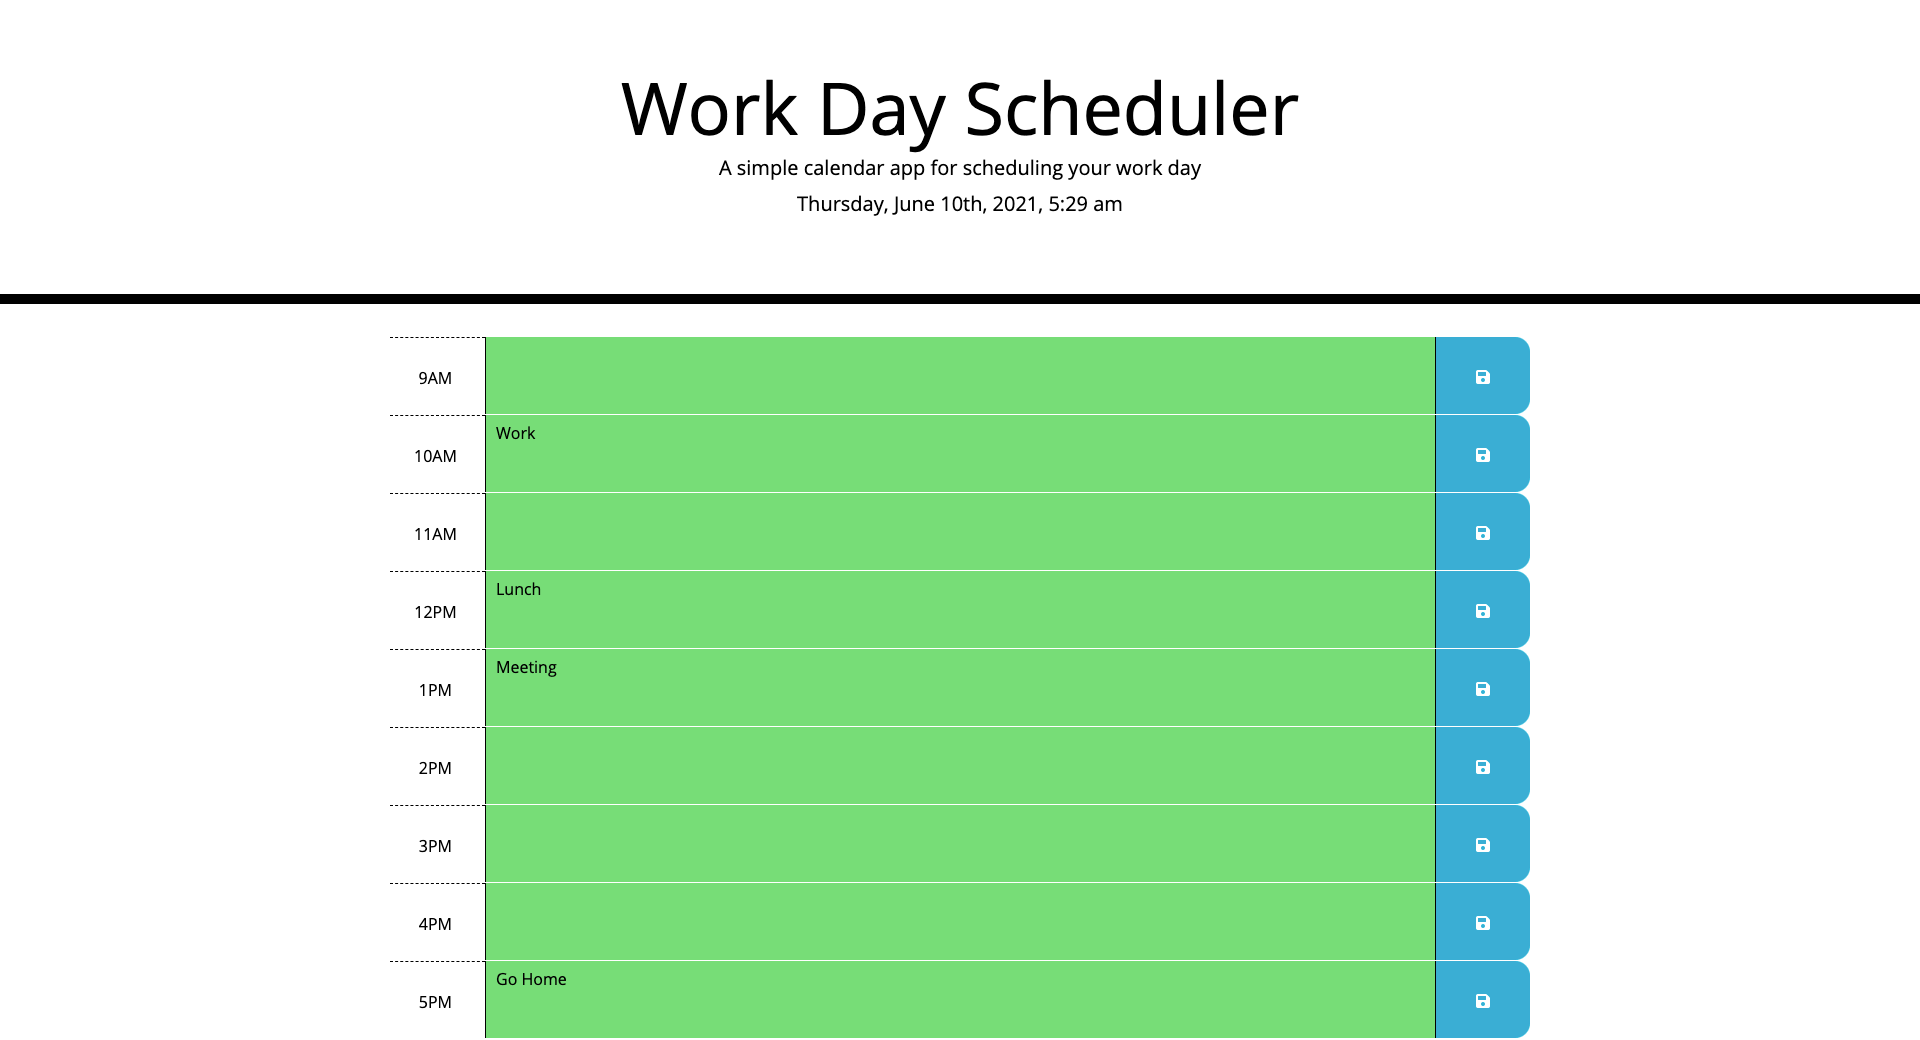
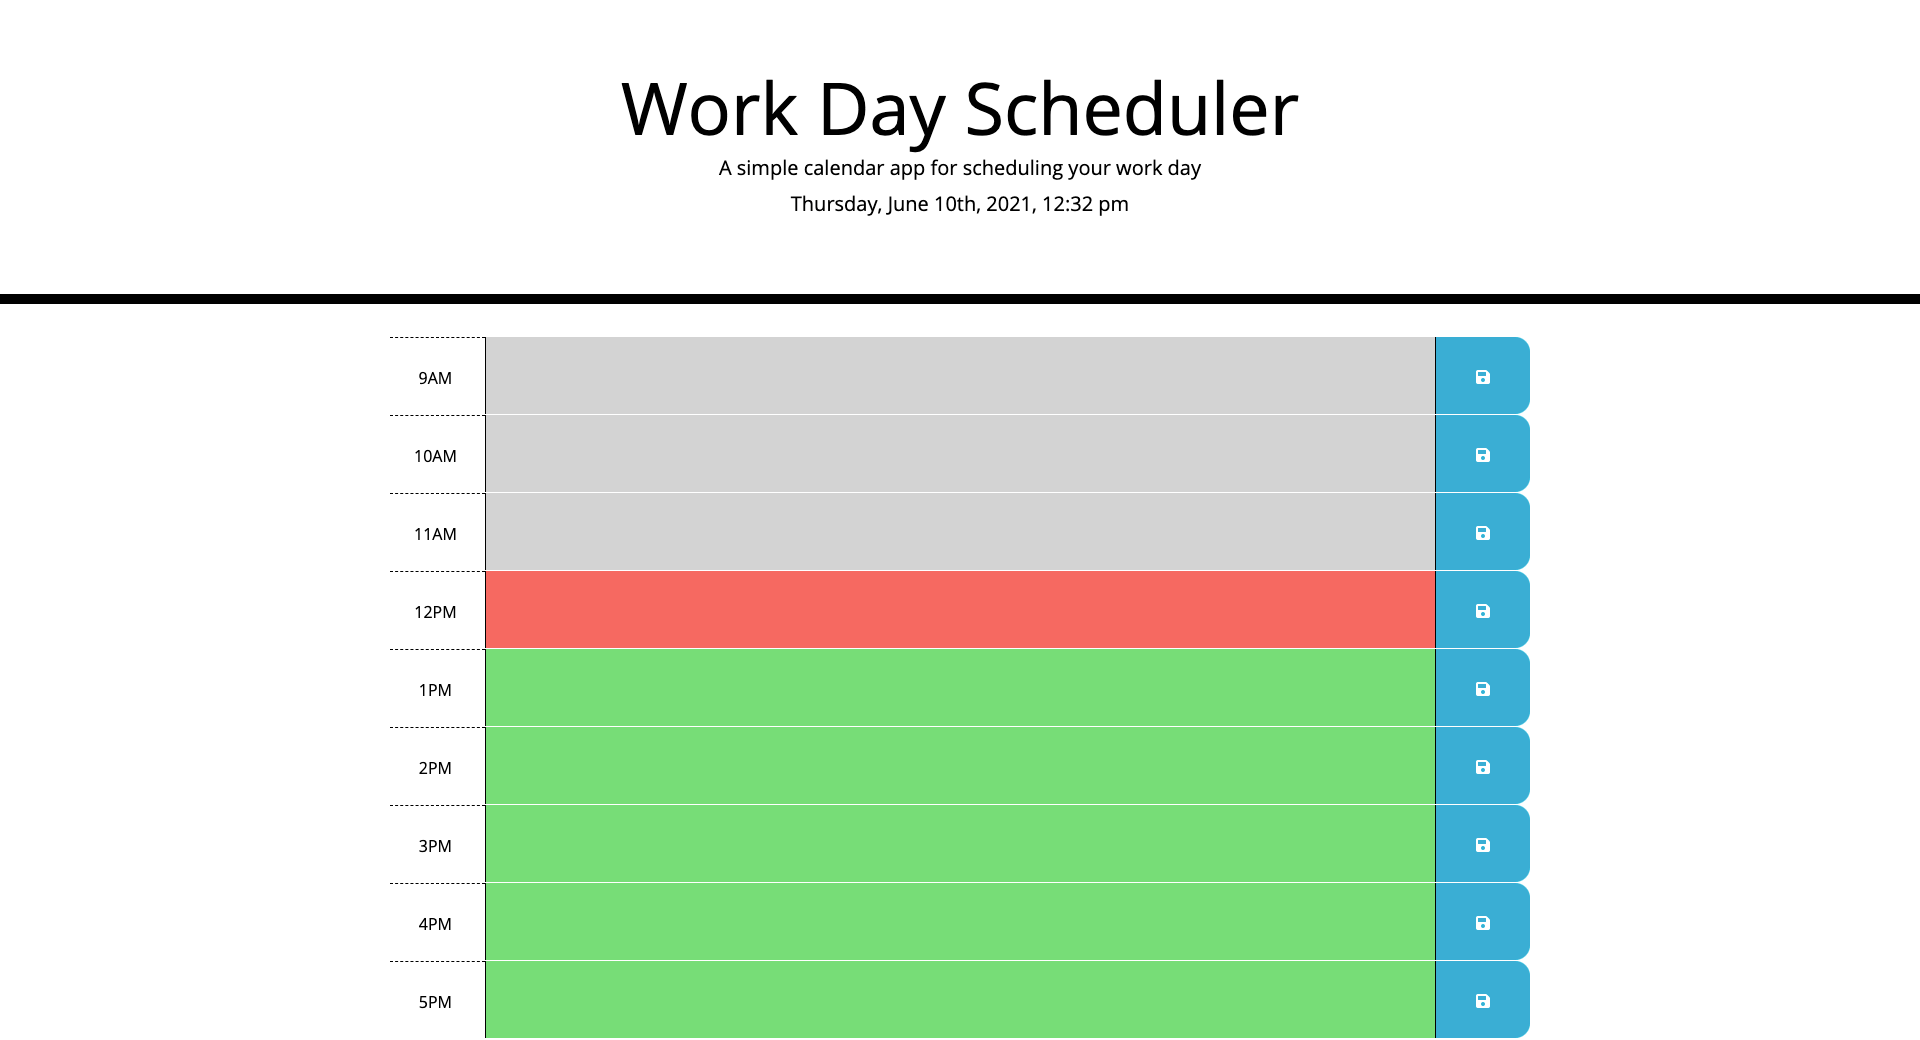
updated readme file screenshot.

Changed region(s): [[0.25, 0.3077, 0.75, 0.6462], [0.4062, 0.1846, 0.5938, 0.2154], [0.25, 0.9231, 0.2812, 0.9538]]

diff --git a/README.md b/README.md
@@ -1,19 +1,25 @@
 # Work-day-planner
 
 ## Description
-This planner gives typical 9-5 worker to implement their notes to keep track of what to do for the work hours.
+This planner gives a typical 9-5 worker a planner/task reminder to implement their notes to keep track of what to do or what is upcoming within their work hours.
+- If the alloted time has passed, then the row will be gray.
+- If the alloted time is within the current hour block, the row will be red.
+- If the alloted time is yet to pass, then all future rows will be green.
+
 
 ## What was your motivation?
 - I really wanted to utilize 3rd party API's.
 - After learning about js from scratch, it was surprising to know that their were easier ways to code in js.
+- So far, my favorite 3rd party langauge is jquery.
 
 ## Why did I build this project?
 - As someone who likes to stay on schedule, I wanted to create an application where I can track my progress of what to do for the day.
-- I built the interface to be as simple as possible and to visually see if the time has passed or not.
+- I built the interface to be as simple as possible and to visually see if the time has passed or not, as shown in the photos below.
 
 ## What problem does it solve?
 - I ran into using 3 party languages errors.
-    - Because I got confortable with vanilla javascript, learning other formats to code was quite difficult to understand and implement.
+- Because I got confortable with vanilla javascript, learning other formats to code was quite difficult to understand and implement.
+- I had to constantly remind myself that if I use a certain "lingo" I have to continually use it and dont interchange as my code will look sloppy and hard to read again in the future.
 
 ## What did I learn?
 - Overall, building this application was an amazing experience, and continually learning more js is always a good challenge for someone who wants to enter into the tech industry.
